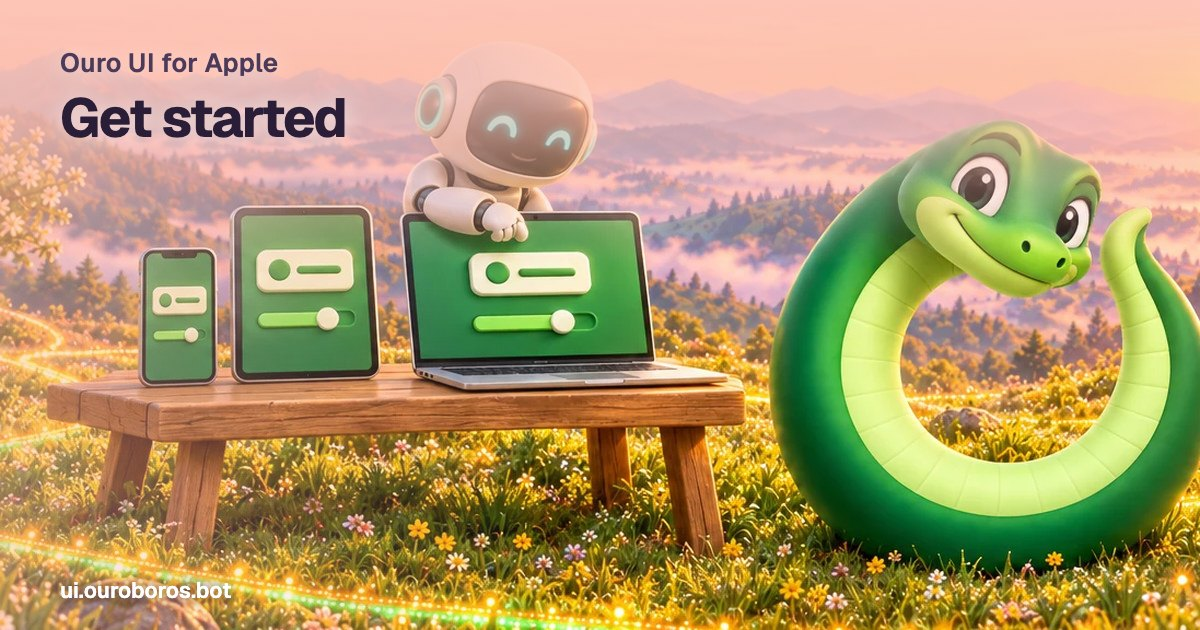
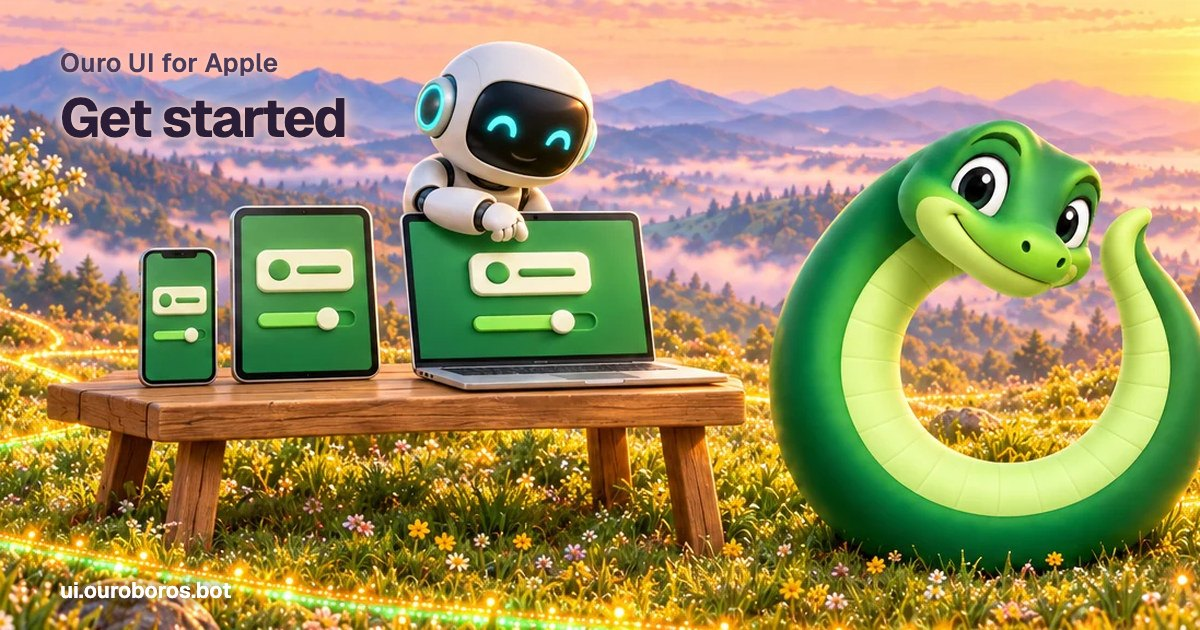
Site: link previews show whole storybook scenes, and component pages share the docs card (#776)
* Site: component pages and the lost page share the docs card instead of the old screenshot

A page without a link-preview card of its own now shows the docs card, a storybook scene, instead of og.png, a screenshot of the old landing page. og.png stays for links shared before the cards.

* Site: link-preview cards show the whole scene, without the wash

* Site: the link-preview cards, redrawn without the wash

* Site: the old landing screenshot's notes say link previews use the storybook cards

diff --git a/site/src/site.test.tsx b/site/src/site.test.tsx
@@ -471,29 +471,38 @@ it("the Updating page's note has the tag filled in and no raw-file hint", () => 
 });
 
 describe("head tags", () => {
-  it("give every page Open Graph and Twitter tags with the 1200x630 og.png", async () => {
+  it("give a component page Open Graph and Twitter tags with the docs card, a 1200x630 storybook scene", async () => {
     const route = { path: "/docs/sheet/", title: "Sheet · Ouro HX", description: 'Install "sheet" & go' };
     const tags = headTags(route, true);
+    const alt = "Ouro HX docs: Every component, with a live demo to poke. Six jars of paint on a bench pour glowing ribbons of colour onto a phone, a laptop and a tablet below, all painted to match, while Ouro watches the pour.";
     for (const tag of [
       '<meta property="og:title" content="Sheet · Ouro HX" />',
       '<meta property="og:description" content="Install &quot;sheet&quot; &amp; go" />',
       '<meta property="og:url" content="https://ui.ouroboros.bot/docs/sheet/" />',
-      '<meta property="og:image" content="https://ui.ouroboros.bot/og.png" />',
+      '<meta property="og:image" content="https://ui.ouroboros.bot/og/docs.jpg" />',
       '<meta property="og:image:width" content="1200" />',
       '<meta property="og:image:height" content="630" />',
       '<meta name="twitter:card" content="summary_large_image" />',
-      '<meta name="twitter:image" content="https://ui.ouroboros.bot/og.png" />',
+      '<meta name="twitter:image" content="https://ui.ouroboros.bot/og/docs.jpg" />',
       '<meta property="og:site_name" content="Ouro UI" />',
-      '<meta property="og:image:alt" content="Ouro UI: Ouro HX for the screens people use, Ouro AX for the tools agents use." />',
-      '<meta name="twitter:image:alt" content="Ouro UI: Ouro HX for the screens people use, Ouro AX for the tools agents use." />',
+      `<meta property="og:image:alt" content="${alt}" />`,
+      `<meta name="twitter:image:alt" content="${alt}" />`,
     ]) {
       expect(tags).toContain(tag);
     }
     expect(headTags(route, false).some((tag) => tag.includes("og:url") || tag.includes("canonical"))).toBe(false);
     const image = new Image();
-    image.src = href("/og.png");
+    image.src = href("/og/docs.jpg");
     await image.decode();
     expect([image.naturalWidth, image.naturalHeight]).toEqual([1200, 630]);
+  });
+
+  it("give every route a storybook card under og/, never the old landing-page screenshot", () => {
+    for (const route of routes) {
+      const image = headTags(route, true).find((tag) => tag.startsWith('<meta property="og:image" '));
+      expect(image, route.path).toMatch(/content="https:\/\/ui\.ouroboros\.bot\/og\/[a-z-]+\.jpg"/);
+      expect(headTags(route, true), route.path).toContain(image!.replace('<meta property="og:image"', '<meta name="twitter:image"'));
+    }
   });
 
   it("pin each docs route's install command to the newest release", () => {

diff --git a/site/src/head.ts b/site/src/head.ts
@@ -3,7 +3,7 @@ import { pageKind } from "./paths";
 import { earlyInputScript } from "./early-input";
 import { prepaintScript } from "./themes/prepaint";
 import fonts from "./themes/fonts.json";
-import { CARDS, cardAlt, STORYBOOK } from "./storybook";
+import { cardAlt, cardFor, STORYBOOK } from "./storybook";
 
 /** Where Pages serves the site. */
 export const SITE = "https://ui.ouroboros.bot";
@@ -21,11 +21,10 @@ export function headTags(route: Route, canonical: boolean): string[] {
   canonical = canonical && !route.noindex;
   const title = escape(route.title);
   const description = escape(route.description);
-  // A page with a card of its own shows it; the component pages keep og.png, the site-wide card, until
-  // site.test.tsx's head-tag test moves with them to the docs card (after the phone-menu pull request, #648).
-  const card = CARDS[route.path];
-  const image = card ? `${SITE}/og/${card.file}` : `${SITE}/og.png`;
-  const alt = card ? escape(cardAlt(card)) : "Ouro UI: Ouro HX for the screens people use, Ouro AX for the tools agents use.";
+  // A page with a card of its own shows it; every other page (a component, a guide, the 404) shows the docs card.
+  const card = cardFor(route.path);
+  const image = `${SITE}/og/${card.file}`;
+  const alt = escape(cardAlt(card));
   return [
     // First, so the stored theme and dark mode are on <html> before anything paints.
     `<script>${prepaintScript}</script>`,

diff --git a/AGENTS.md b/AGENTS.md
@@ -79,7 +79,7 @@ The layout mirrors where shadcn installs files, so the CLI's import rewrite land
 - `UPGRADING.md`: "Upgrading from v0.1.0", the one copy of the note, with a short "What changed, by version" list of the changes an app must act on (keep it in step with `changes/` when a release adds one).[^a-upgrading] Its addresses end in `#{{latestRelease}}`, a placeholder each copy fills, and a line under its title tells readers of the raw file what it stands for; every copy drops that line (`rawHint`): `pnpm run docs` copies its body into README.md with the newest release, the site's Updating page renders it the same way, release.yml prints it into the release notes with the release tag, and the `upgrade` install test runs its commands (`scripts/upgrade-note.mjs`).[^a-upgrading] Edit only this file; `scripts/upgrade-note.test.mjs` fails if a copy of a command appears anywhere else.
 - `test/`: the story-wide accessibility test, the screenshot test and their baselines, and `stock-theme.test.tsx`, which checks every tone and variant at 4.5:1 under stock shadcn variables (`test/shadcn-stock.css`, copied from `shadcn init`) plus `ouro-base.css`, and under the Ouro theme.[^a-stock-theme] `theme-fixtures/` holds third-party themes as an app's stylesheet has them (only `:root`, `.dark` and `@theme inline`, each naming its source and version in its header): `nova.css` and `vega.css` from shadcn's presets and `cookbook.css` from Spoonjoy; `theme-fixtures.ts` puts one in place of the Ouro look at runtime.[^a-theme-fixtures] `test/themes/` runs `story-axe.ts`'s scan of every story under each fixture in light and dark (the `themes` project, only with `OURO_THEMES=1`: `pnpm test:themes`); a violation the fixture's own values cause is pinned in `themeFindings` (`test/themes/theme-findings.ts`) node by node (phase, rule and selector) with its reason: the story must flag exactly those nodes, so a new failure in it still fails and the entry fails once the theme is fixed (`test/theme-findings.test.ts`).[^a-theme-findings] `theme-tokens.test.tsx` sets every shadow and font token to a sentinel and checks that each story reads them.[^a-theme-tokens]
 - `scripts/agent-usability/`: the agent-usability test (spec §8), which measures success criterion 1.[^a-usability] Fresh agents build five screens (`screens/<screen>/task.md`, with the `src/api/` stand-in for the backend in `files/`) three ways, three times each: shadcn/ui, shadcn/ui with its official skill, and Ouro HX (`arms/create.sh`, which also records each arm's baseline: what `tsc -b` and oxlint find before any agent runs).[^a-usability-arms] `score.mts <arm> <screen> <app-dir> --arm-record <arm.json>` judges a result with no model calls: `tsc -b` and oxlint errors that are not in the baseline, axe-core's WCAG A and AA rules at 390px and 1280px in light and dark, and the screen's behavior checks (`checks/<screen>.mts`).[^a-usability-score] `formula.mts` defines the score and is the only place that documents it. The scores are published beside shadcn/ui's, so no arm may gain or lose a point for anything but what its agent did: every check must be stated in the prompt (`prompt.mts`) or the task, in behavior or accessibility terms, and when a task changes, its checks and its known-good screen (`test/screens/`) change with it.[^a-usability-fair] `preflight.mts` proves the scorer in a real arm app, `table.mts` writes the results table with the pinned versions, and `page.mts` is the hook for the docs page that will show it. Agent output is committed under `runs/<date>/<arm>/<screen>/<run>/` with each arm's record in `runs/<date>/arms/` (ESLint ignores it), and `agent-usability.yml` scores the newest run weekly and on demand into its job summary; it is not a required check.[^a-usability-workflow] `README.md` there is the runbook, with the exact prompt and the exact command that starts a fresh agent. `score.test.mjs` (in `pnpm test:scripts`) proves the scorer on a known-good plain-React version of every screen and on broken copies.[^a-usability-scorer]
-- `site/`: the home page, the Nautilus's page and the docs site (https://ui.ouroboros.bot/), built with Vite from the root dependencies, not a workspace package. Docs pages render the generated `docs/*.md`, each page loading only its own files before it renders or hydrates (`site/src/docs/content.ts`, through the docs module's `prepare`), and the index lists every page from the summaries `pnpm run docs` writes into `catalog.json` and `pages.json`, so the docs' first load doesn't grow with each page; each registry item's page is `docs/<item name>/`, listed from `site/src/docs/catalog.json` (written by `pnpm run docs`), with the live demo from `site/src/docs/demos/<item name>.demo.tsx` (its default export; `site/src/docs/demos.tsx` finds them by glob).[^a-demos] Demos are site code and ship in no item.[^a-demos-site] `pnpm site:build` writes `site/dist` (prerendered HTML per route, with Open Graph and Twitter tags from `site/src/head.ts`), `pnpm site:dev` serves it. `site/public/og.png`, the 1200x630 link-preview image, is a screenshot of the old landing page with its sheet open; regenerate it with `node site/scripts/og-image.mts` after the home page changes, review it and commit it.[^a-og] The "Agents read the types" examples live in `site/src/agents/examples.ts`; `pnpm site:messages` regenerates their compiler output (`site:build` and `pnpm test:scripts` fail when it is stale), and the `site` Vitest project checks each quoted dev message against the real component.[^a-agent-messages] Each page kind (the voyage module, which renders the home page `/` and the Nautilus's page `/nautilus/`, and the docs) is its own chunk: `site/scripts/prerender.mts` links its stylesheet, `site/src/entry-client.tsx` loads the page's module once the server HTML has painted (so the paint gets the bandwidth) and then hydrates, `App` marks the hydrated page `html[data-site-ready]` (end-to-end specs wait for it before they click), and `site/e2e/catalog.spec.ts` holds each closure to its gzip ceiling (the docs may not grow past what they load now, plus 1 KiB, and the voyage pages stay within 274 KiB; the voyage pages never load the docs' Markdown; Recharts and docs demos are never in one).[^a-chunks] The site is named Ouro UI (the header's brand, the home page's title, `og:site_name`, the web manifest and the footer), in two halves: Ouro HX, for the screens people use, and Ouro AX, for the tools agents use; the bar, the footer and the hero's eyebrow name both, and under the install the hero says "Ouro UI has a half for people and a half for agents" and links each (`HALVES` in `site/src/copy.ts`).[^a-ui-halves] The header wears the Ouro HX mark beside the name Ouro UI, and Ouro UI and Ouro AX have no approved mark of their own (`site/public/brand/provenance.json`).[^a-ui-mark] A component's or guide's page keeps its product's name in its title (`Button · Ouro HX`). An old address is a static page that refreshes to the new one, with a canonical link and a plain link (`redirects` in `site/src/routes.ts`, `redirectPage` in `site/src/head.ts`): `/voyage/` goes to `/`.[^a-redirects]
+- `site/`: the home page, the Nautilus's page and the docs site (https://ui.ouroboros.bot/), built with Vite from the root dependencies, not a workspace package. Docs pages render the generated `docs/*.md`, each page loading only its own files before it renders or hydrates (`site/src/docs/content.ts`, through the docs module's `prepare`), and the index lists every page from the summaries `pnpm run docs` writes into `catalog.json` and `pages.json`, so the docs' first load doesn't grow with each page; each registry item's page is `docs/<item name>/`, listed from `site/src/docs/catalog.json` (written by `pnpm run docs`), with the live demo from `site/src/docs/demos/<item name>.demo.tsx` (its default export; `site/src/docs/demos.tsx` finds them by glob).[^a-demos] Demos are site code and ship in no item.[^a-demos-site] `pnpm site:build` writes `site/dist` (prerendered HTML per route, with Open Graph and Twitter tags from `site/src/head.ts`), `pnpm site:dev` serves it. Link previews show storybook cards: `node site/scripts/og-cards.mts` draws them into `site/public/og/` from `CARDS` in `site/src/storybook.ts`, and a page without a card of its own shows the docs card. `site/public/og.png`, the 1200x630 screenshot of the old landing page that previews used before the cards, stays for links shared then; `node site/scripts/og-image.mts` redraws it.[^a-og] The "Agents read the types" examples live in `site/src/agents/examples.ts`; `pnpm site:messages` regenerates their compiler output (`site:build` and `pnpm test:scripts` fail when it is stale), and the `site` Vitest project checks each quoted dev message against the real component.[^a-agent-messages] Each page kind (the voyage module, which renders the home page `/` and the Nautilus's page `/nautilus/`, and the docs) is its own chunk: `site/scripts/prerender.mts` links its stylesheet, `site/src/entry-client.tsx` loads the page's module once the server HTML has painted (so the paint gets the bandwidth) and then hydrates, `App` marks the hydrated page `html[data-site-ready]` (end-to-end specs wait for it before they click), and `site/e2e/catalog.spec.ts` holds each closure to its gzip ceiling (the docs may not grow past what they load now, plus 1 KiB, and the voyage pages stay within 274 KiB; the voyage pages never load the docs' Markdown; Recharts and docs demos are never in one).[^a-chunks] The site is named Ouro UI (the header's brand, the home page's title, `og:site_name`, the web manifest and the footer), in two halves: Ouro HX, for the screens people use, and Ouro AX, for the tools agents use; the bar, the footer and the hero's eyebrow name both, and under the install the hero says "Ouro UI has a half for people and a half for agents" and links each (`HALVES` in `site/src/copy.ts`).[^a-ui-halves] The header wears the Ouro HX mark beside the name Ouro UI, and Ouro UI and Ouro AX have no approved mark of their own (`site/public/brand/provenance.json`).[^a-ui-mark] A component's or guide's page keeps its product's name in its title (`Button · Ouro HX`). An old address is a static page that refreshes to the new one, with a canonical link and a plain link (`redirects` in `site/src/routes.ts`, `redirectPage` in `site/src/head.ts`): `/voyage/` goes to `/`.[^a-redirects]
 - `site/src/docs/spoonjoy.json`: where Spoonjoy uses each component, for the docs pages' "In Spoonjoy" section.[^a-spoonjoy] `node site/scripts/spoonjoy.mts` rewrites it from Spoonjoy's public pages, fetched signed out (a page counts only when its HTML holds the component's `data-ouro="<item>"` marker), and its `/ouro-provenance.json` (the files that render it); rerun it when Spoonjoy adopts a component, and update the home page's component count (`site/src/voyage/home.tsx`), which `claims:check` compares with the file.
 - The Ouro UI for Apple section (`site/src/apple/`, `/apple/…`) shows what ourostack/ouro-ui-apple has shipped. When an Ouro UI for Apple feature lands on that repository's main branch, update the section in the same wave: its own page if it needs one (`APPLE_PAGES` in `shell.tsx`, `APPLE_PATHS` in `site/src/paths.ts`, `routes.ts`, the island and prerender lists, `catalog.spec.ts`), the overview, the start page and `site/llms.txt`. Say it comes in a later release until a release tag carries it, and give install lines only for a real tag.
 - `site/src/pages/voyage.tsx`: the voyage pages ("Mobilis in mobili", `site-design.md`). The home page `/` is the porthole stage, "Two ships, same parts." (two showcases laid out on the page, not in cards: the Nautilus, a story made up to show HX off, and Spoonjoy, a real app, each with an "X-ray it" link and its picture: the Nautilus in profile beside its words, and Spoonjoy's X-ray screenshot across its row under them, which `node registry/ouro/images/images.ts site/showcase --out site/public/showcase --widths 640,960,1280 --base /showcase/` makes from the sources and provenance in `site/showcase/`; much more is built with HX, so the section never reads as the list of its users, and it counts no components), the themes, the agents section and the install steps with what comes with every component (`site/src/voyage/home.tsx`, `home-reference.tsx`); `/nautilus/` is the story's opening, its list of chapters and Chapters I to III (`site/src/voyage/nautilus.tsx`).[^a-two-ships] This home page took over ouroboros.bot/ouro-hx/, which forwards here: pages about Ouro HX, Ouro UI and Ouro AX are written here, not on ouroboros.bot. `?xray` in the address turns X-ray on at load on both.[^a-xray-address] Its chrome is built from Ouro HX components, and it themes the page with six presets, each a plain shadcn/ui theme in `site/src/themes/<preset>.css` (`:root` and `.dark`, plus `--font-heading`, the `--shadow-*` scale and `--ouro-backdrop-color`, and where a preset's actions differ from its selection, `--ouro-action` and `--ouro-action-foreground`, as Cookbook's do).[^a-presets] `pnpm site:themes` (`site/scripts/themes.mts`) writes `presets.generated.css` (each preset scoped to `[data-theme="<preset>"]`) and `themes.json` (the "Copy theme" and "Copy tokens only" CSS); `--check` (in `site:build`) fails when they are stale, a font's checksum or budget is off, or the synced part of `cookbook.css` was edited.[^a-themes-check] `pnpm site:static-css` (`site/scripts/static-css.mts`) writes `ouro-base.css`, `ouro-theme.css` and each preset as plain stylesheets in `site/public/css/`, for pages without Tailwind (`docs/guides/static-css.md`); `--check` (in `site:build`) fails when one is stale.[^a-static-css] Cookbook is Spoonjoy's own tokens: `node site/scripts/themes.mts sync-cookbook <spoonjoy-v2 checkout>` copies them in and records the commit. The fonts are self-hosted Latin subsets in `site/public/fonts/<family>-<version>.woff2`, listed with their package, checksum, licence and changes in `site/src/themes/fonts.json`; only Geist and Geist Mono are preloaded, and a preset's display face loads when it is chosen. The theme a reader picks is stored in `localStorage` (`ouro-site-theme`) and applied before first paint by the inline script `head.ts` puts first in every page (`site/src/themes/prepaint.ts`).[^a-prepaint] CI's `theme-install` job (`site/scripts/theme-install-test.sh`) pastes each preset's copied CSS into the clean shadcn app the install test starts from, with Checklist and Dialog, and compares it with the site (`site/theme-install/`).[^a-theme-install] The Ouro HX logo in the headers and the favicon comes from `site/public/brand/`: byte-identical copies of the approved artwork, listed with their checksums and source commit in `provenance.json` and checked by `site/scripts/brand.test.mjs`;[^a-brand] never recolour, re-export or redraw them (`site/src/components/brand.tsx` renders the rich render with its `srcset`).
